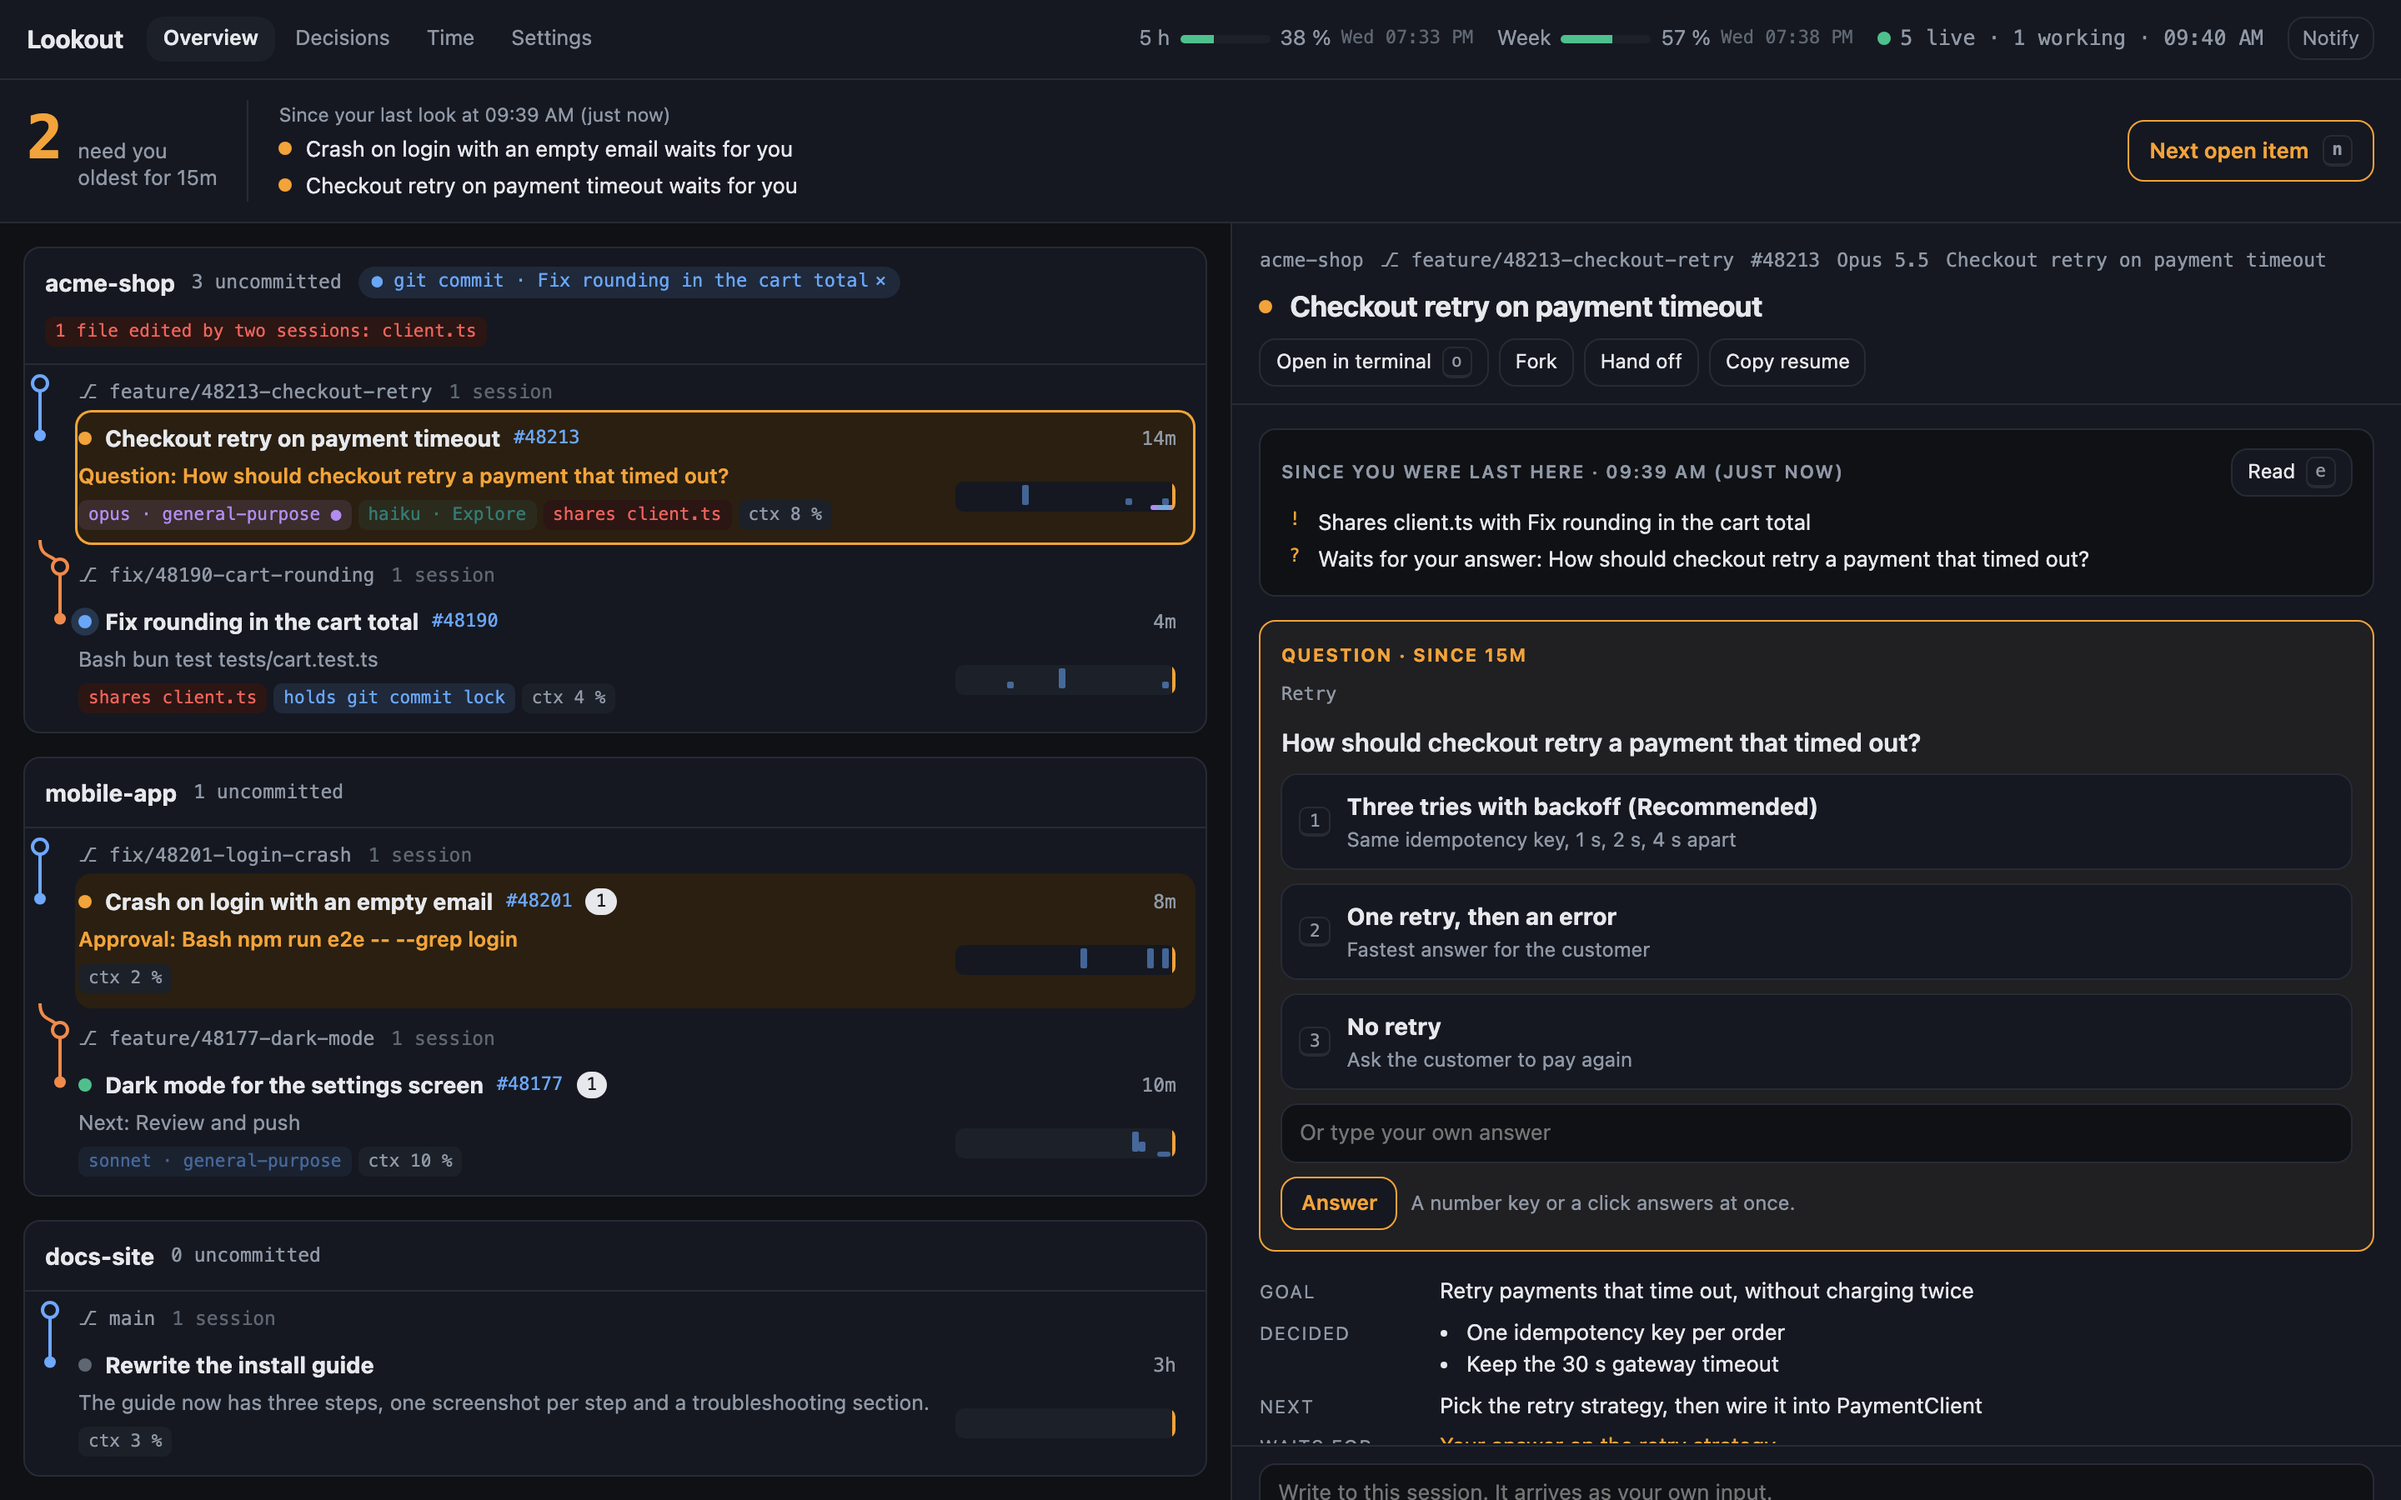
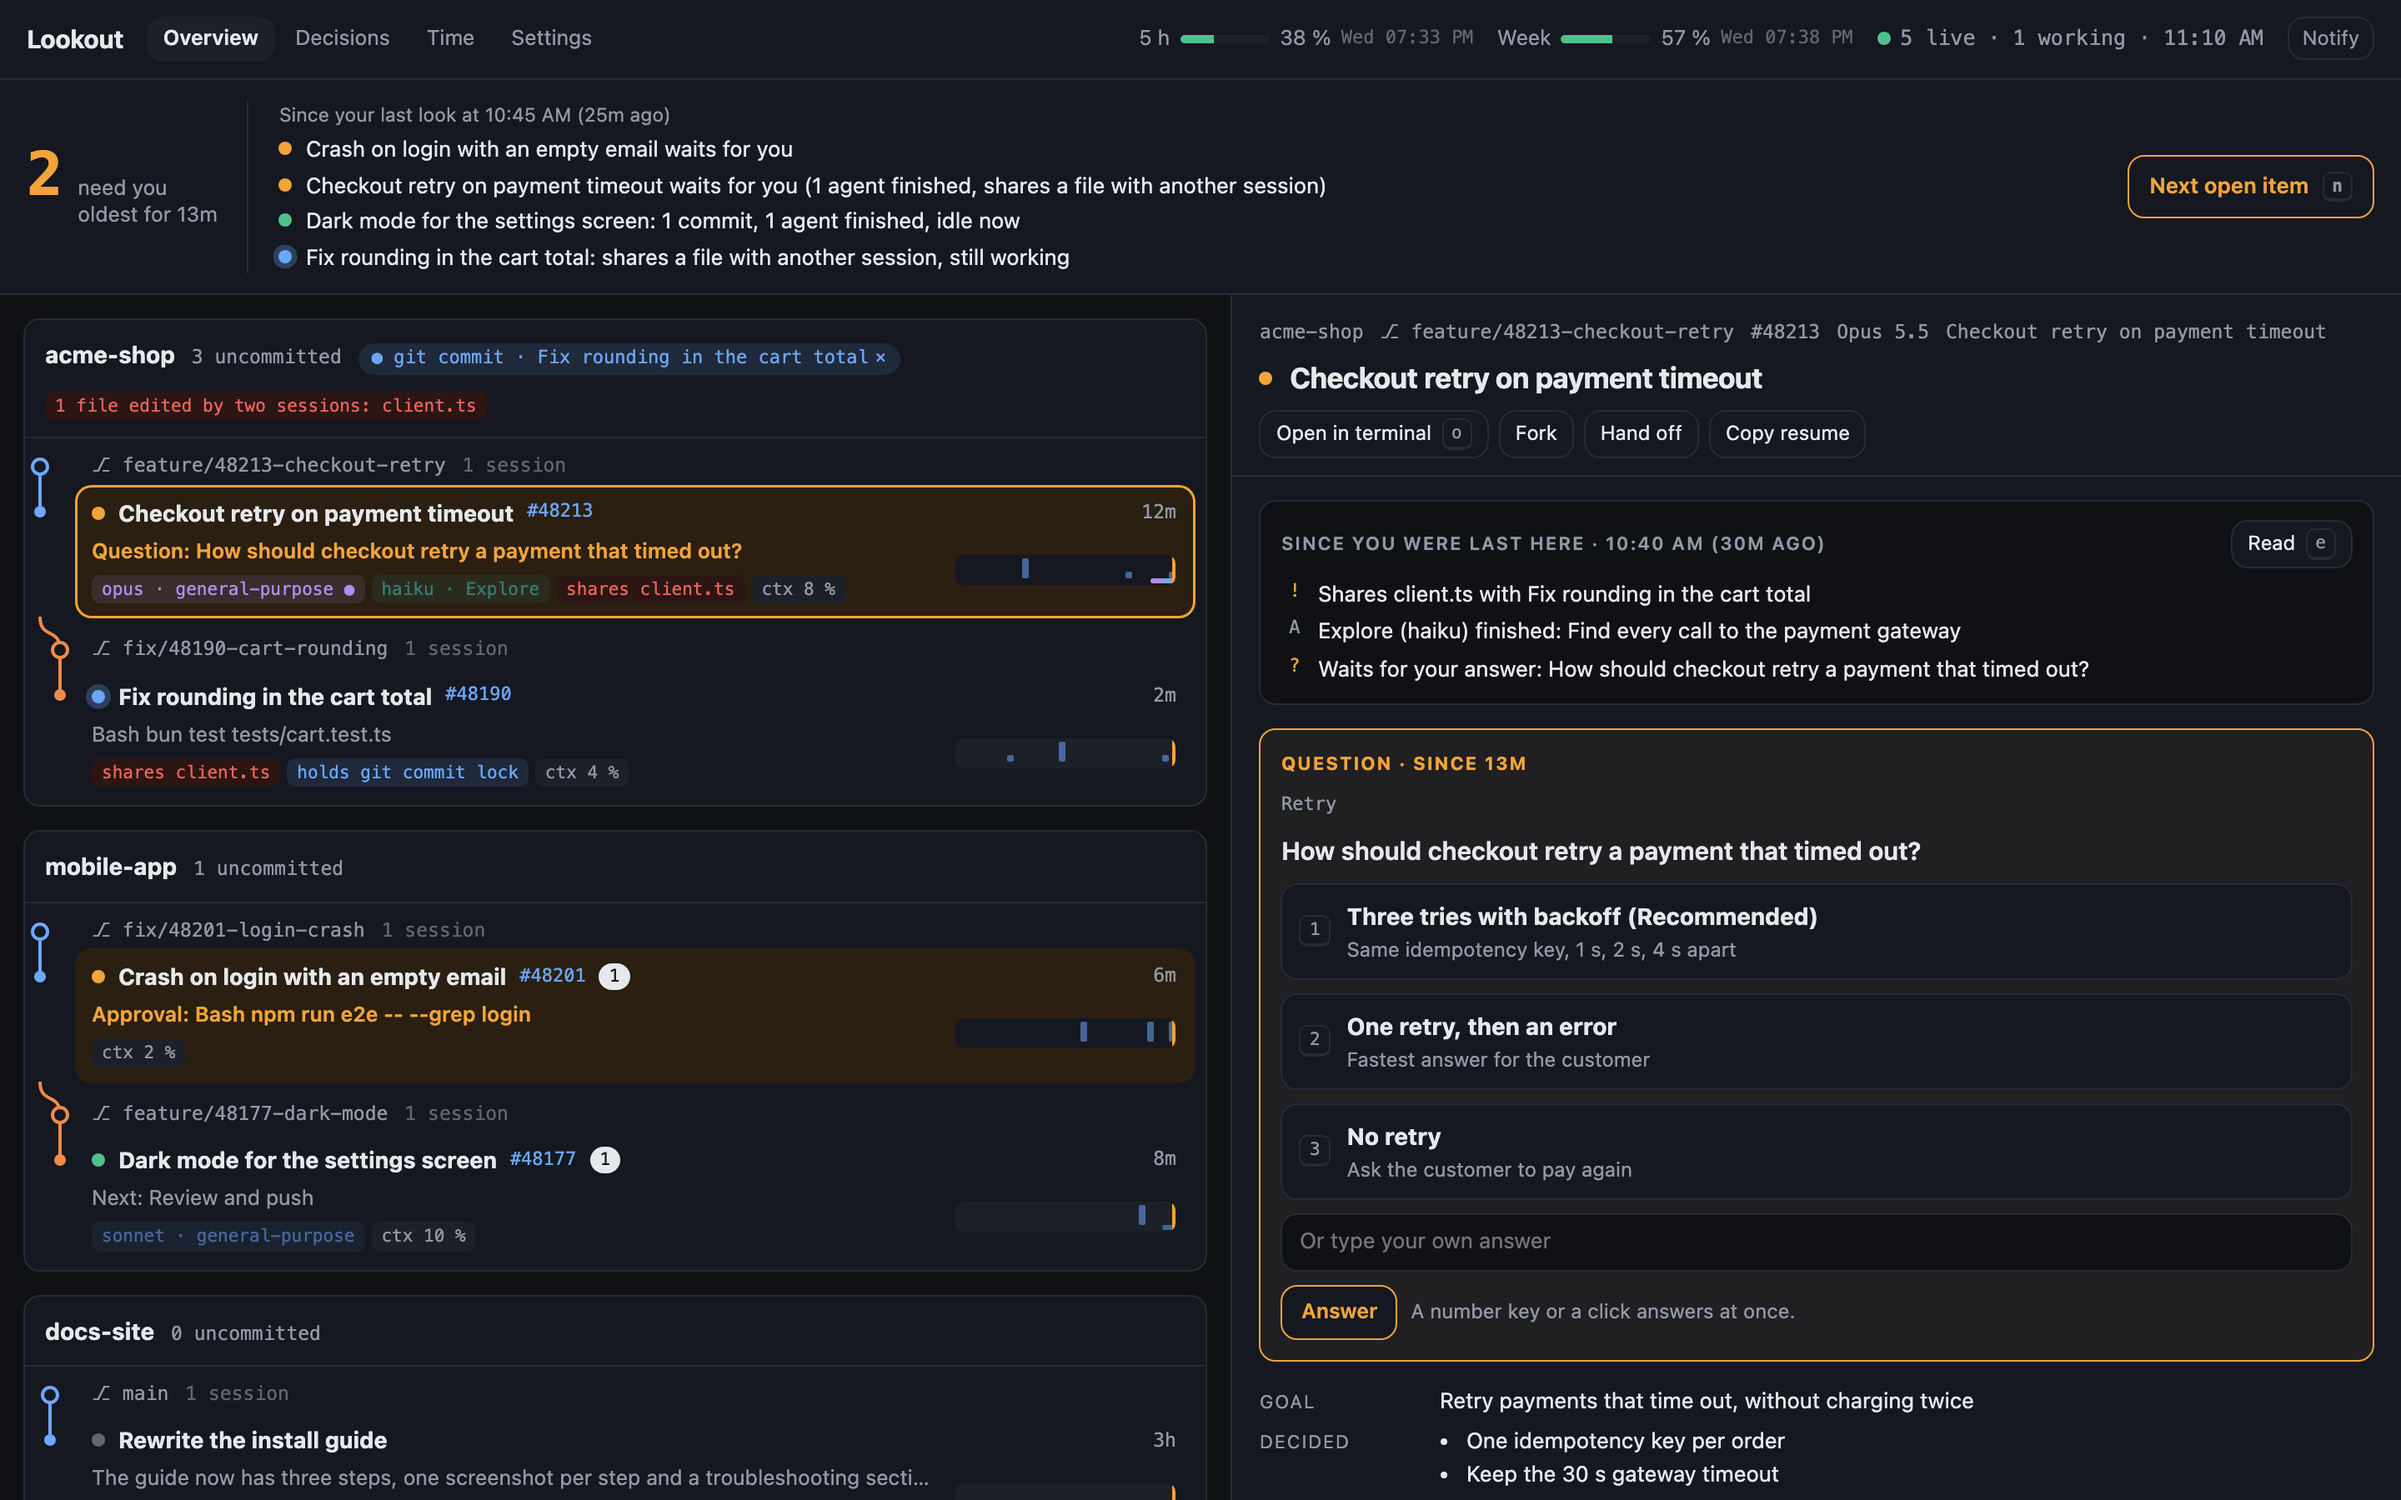
Refresh the README screenshots and add the agent live view

diff --git a/README.md b/README.md
@@ -27,6 +27,8 @@ It works in the terminal, in Claude Desktop and on a local web page, on macOS an
 |---|---|
 | ![Decision log](docs/images/decisions.png) | ![Time per work item](docs/images/time.png) |
 
+![Agent live view: a running subagent's task, tool calls and results, opened from its chip on the session card](docs/images/agent.png)
+
 ## Requirements
 
 - Claude Code with mods (function hooks).
@@ -65,6 +67,8 @@ Keys on the web page: `j` and `k` select, `n` next open item, `1` to `9` answer,
 |---|---|---|---|
 | Overview and answers | `/lookout` pane | same pane | Overview tab |
 | Recap | band above the prompt | band above the prompt | catch-up list |
+| Brief | pinned above the prompt | pinned above the prompt | focus panel |
+| Agent live view | `/lookout` pane, `a` | same pane | click an agent or its chip |
 | Decisions, Time | | | own tabs |
 | Settings | `/lookout settings` | `/lookout settings` | Settings tab, all values |
 | Status line, `/git` | yes | yes | |
